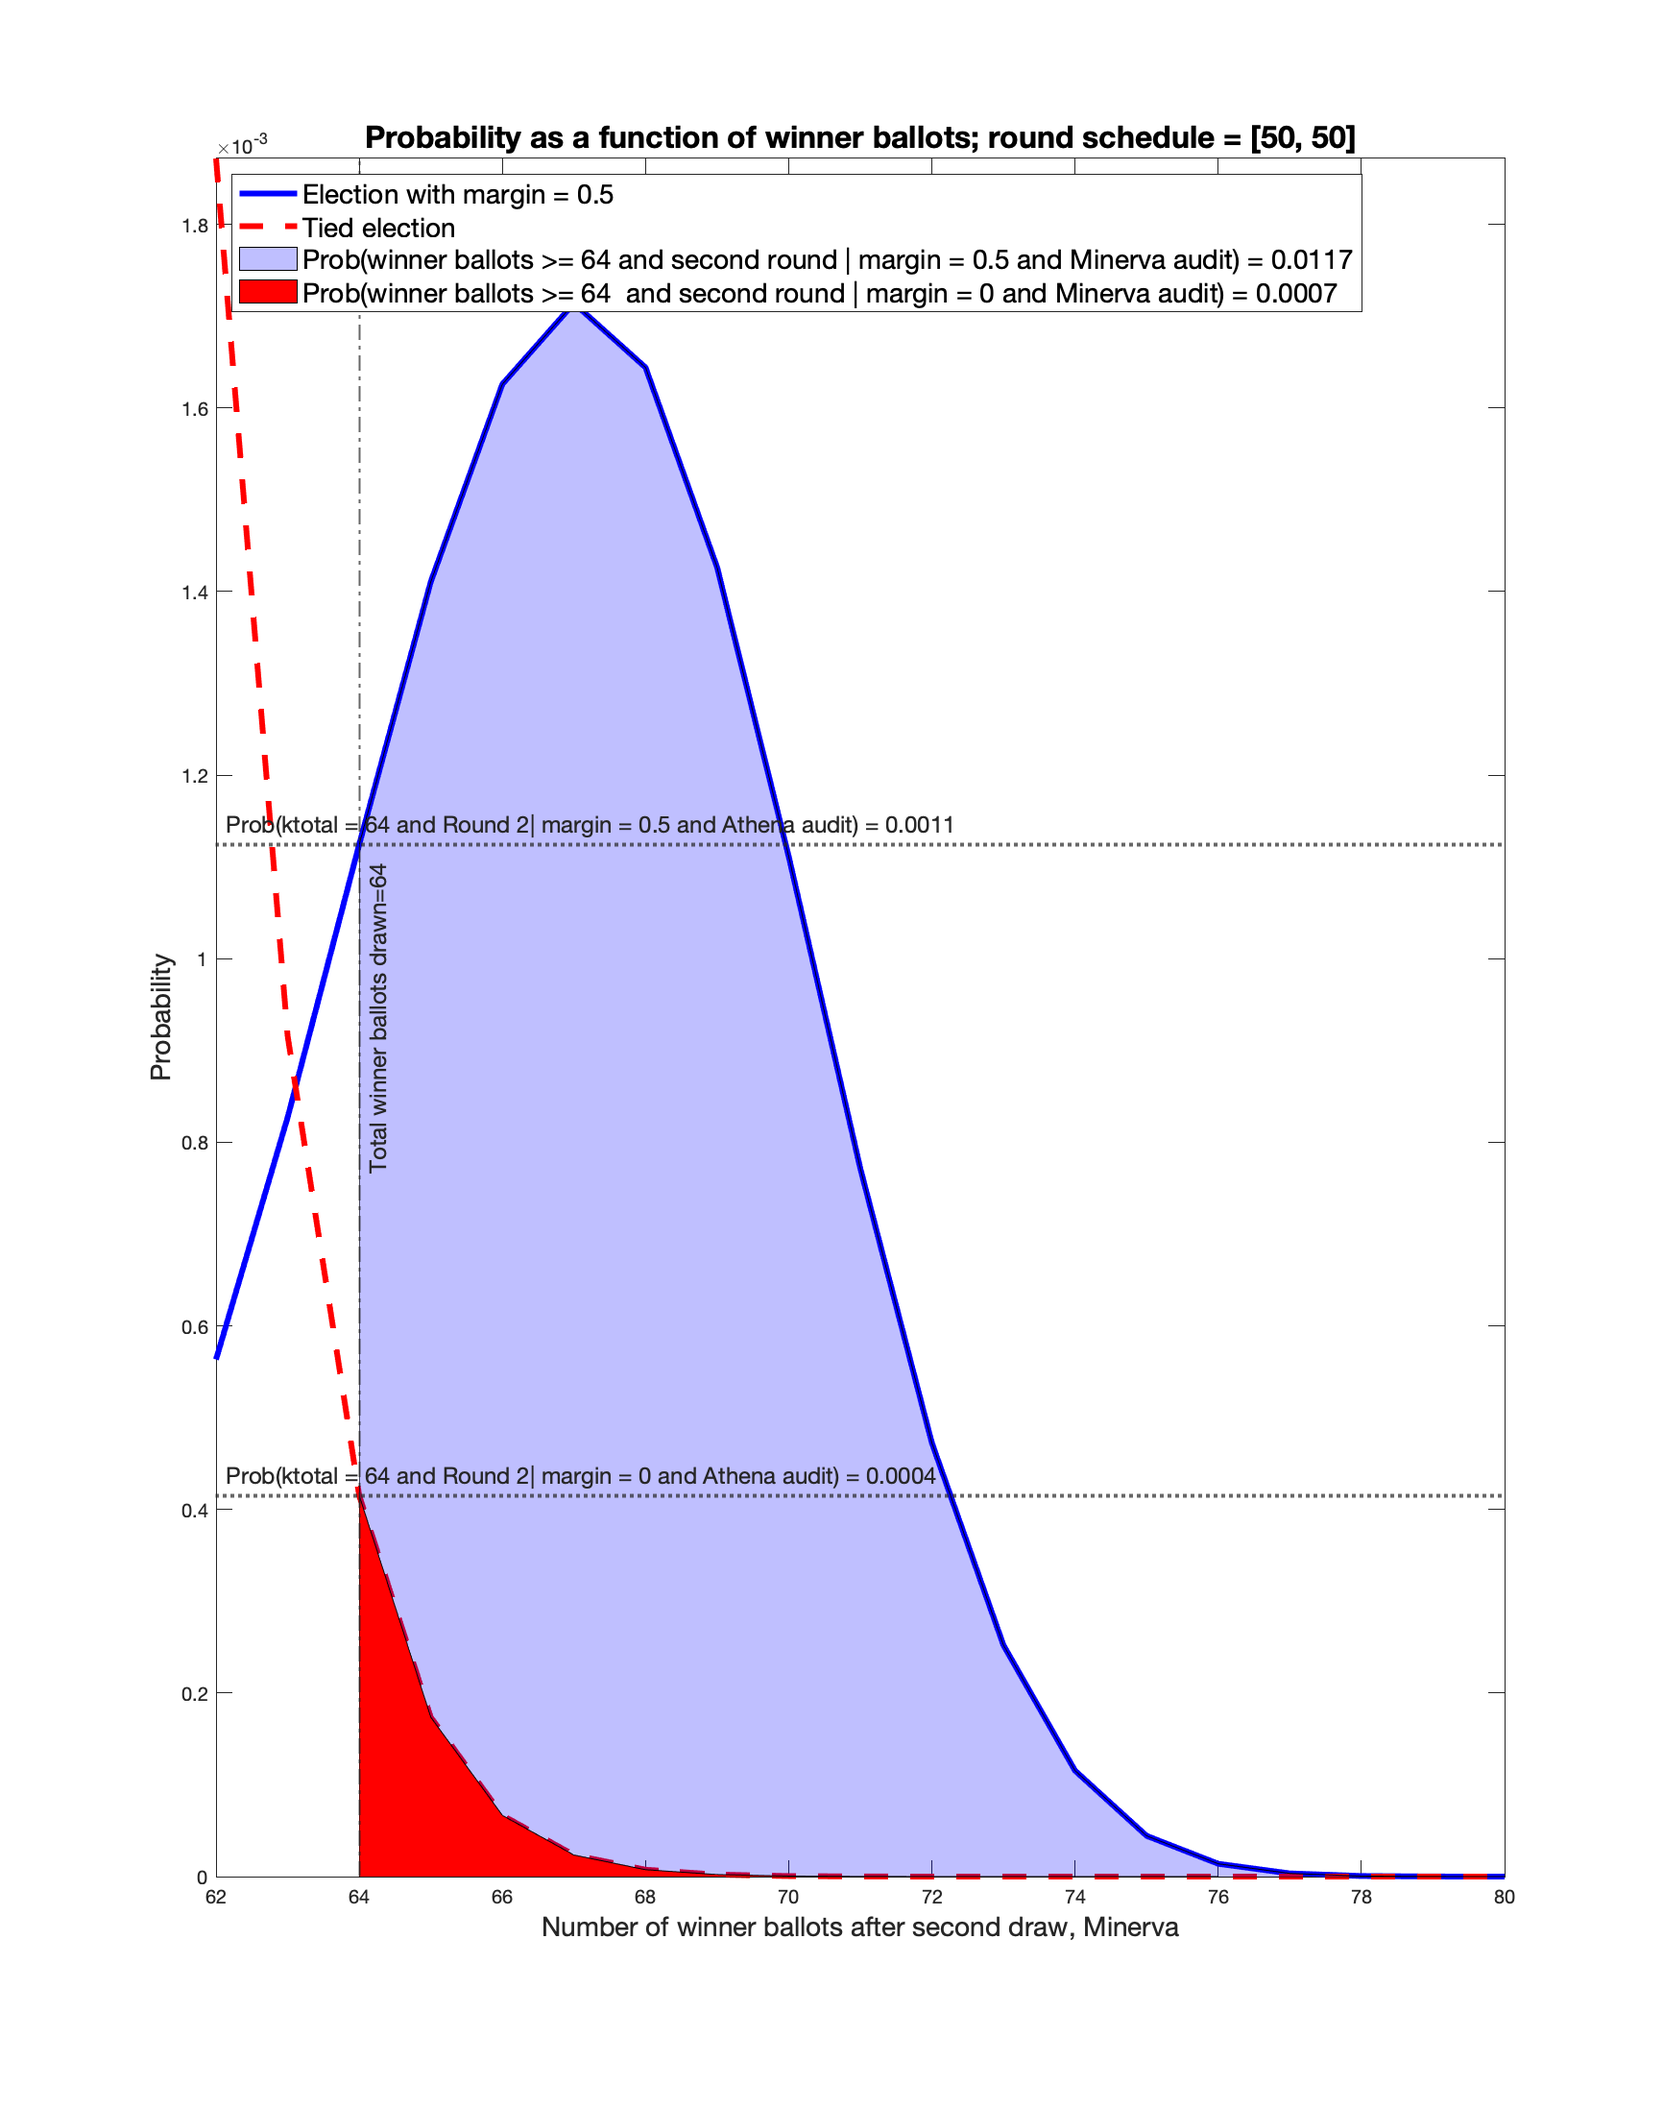
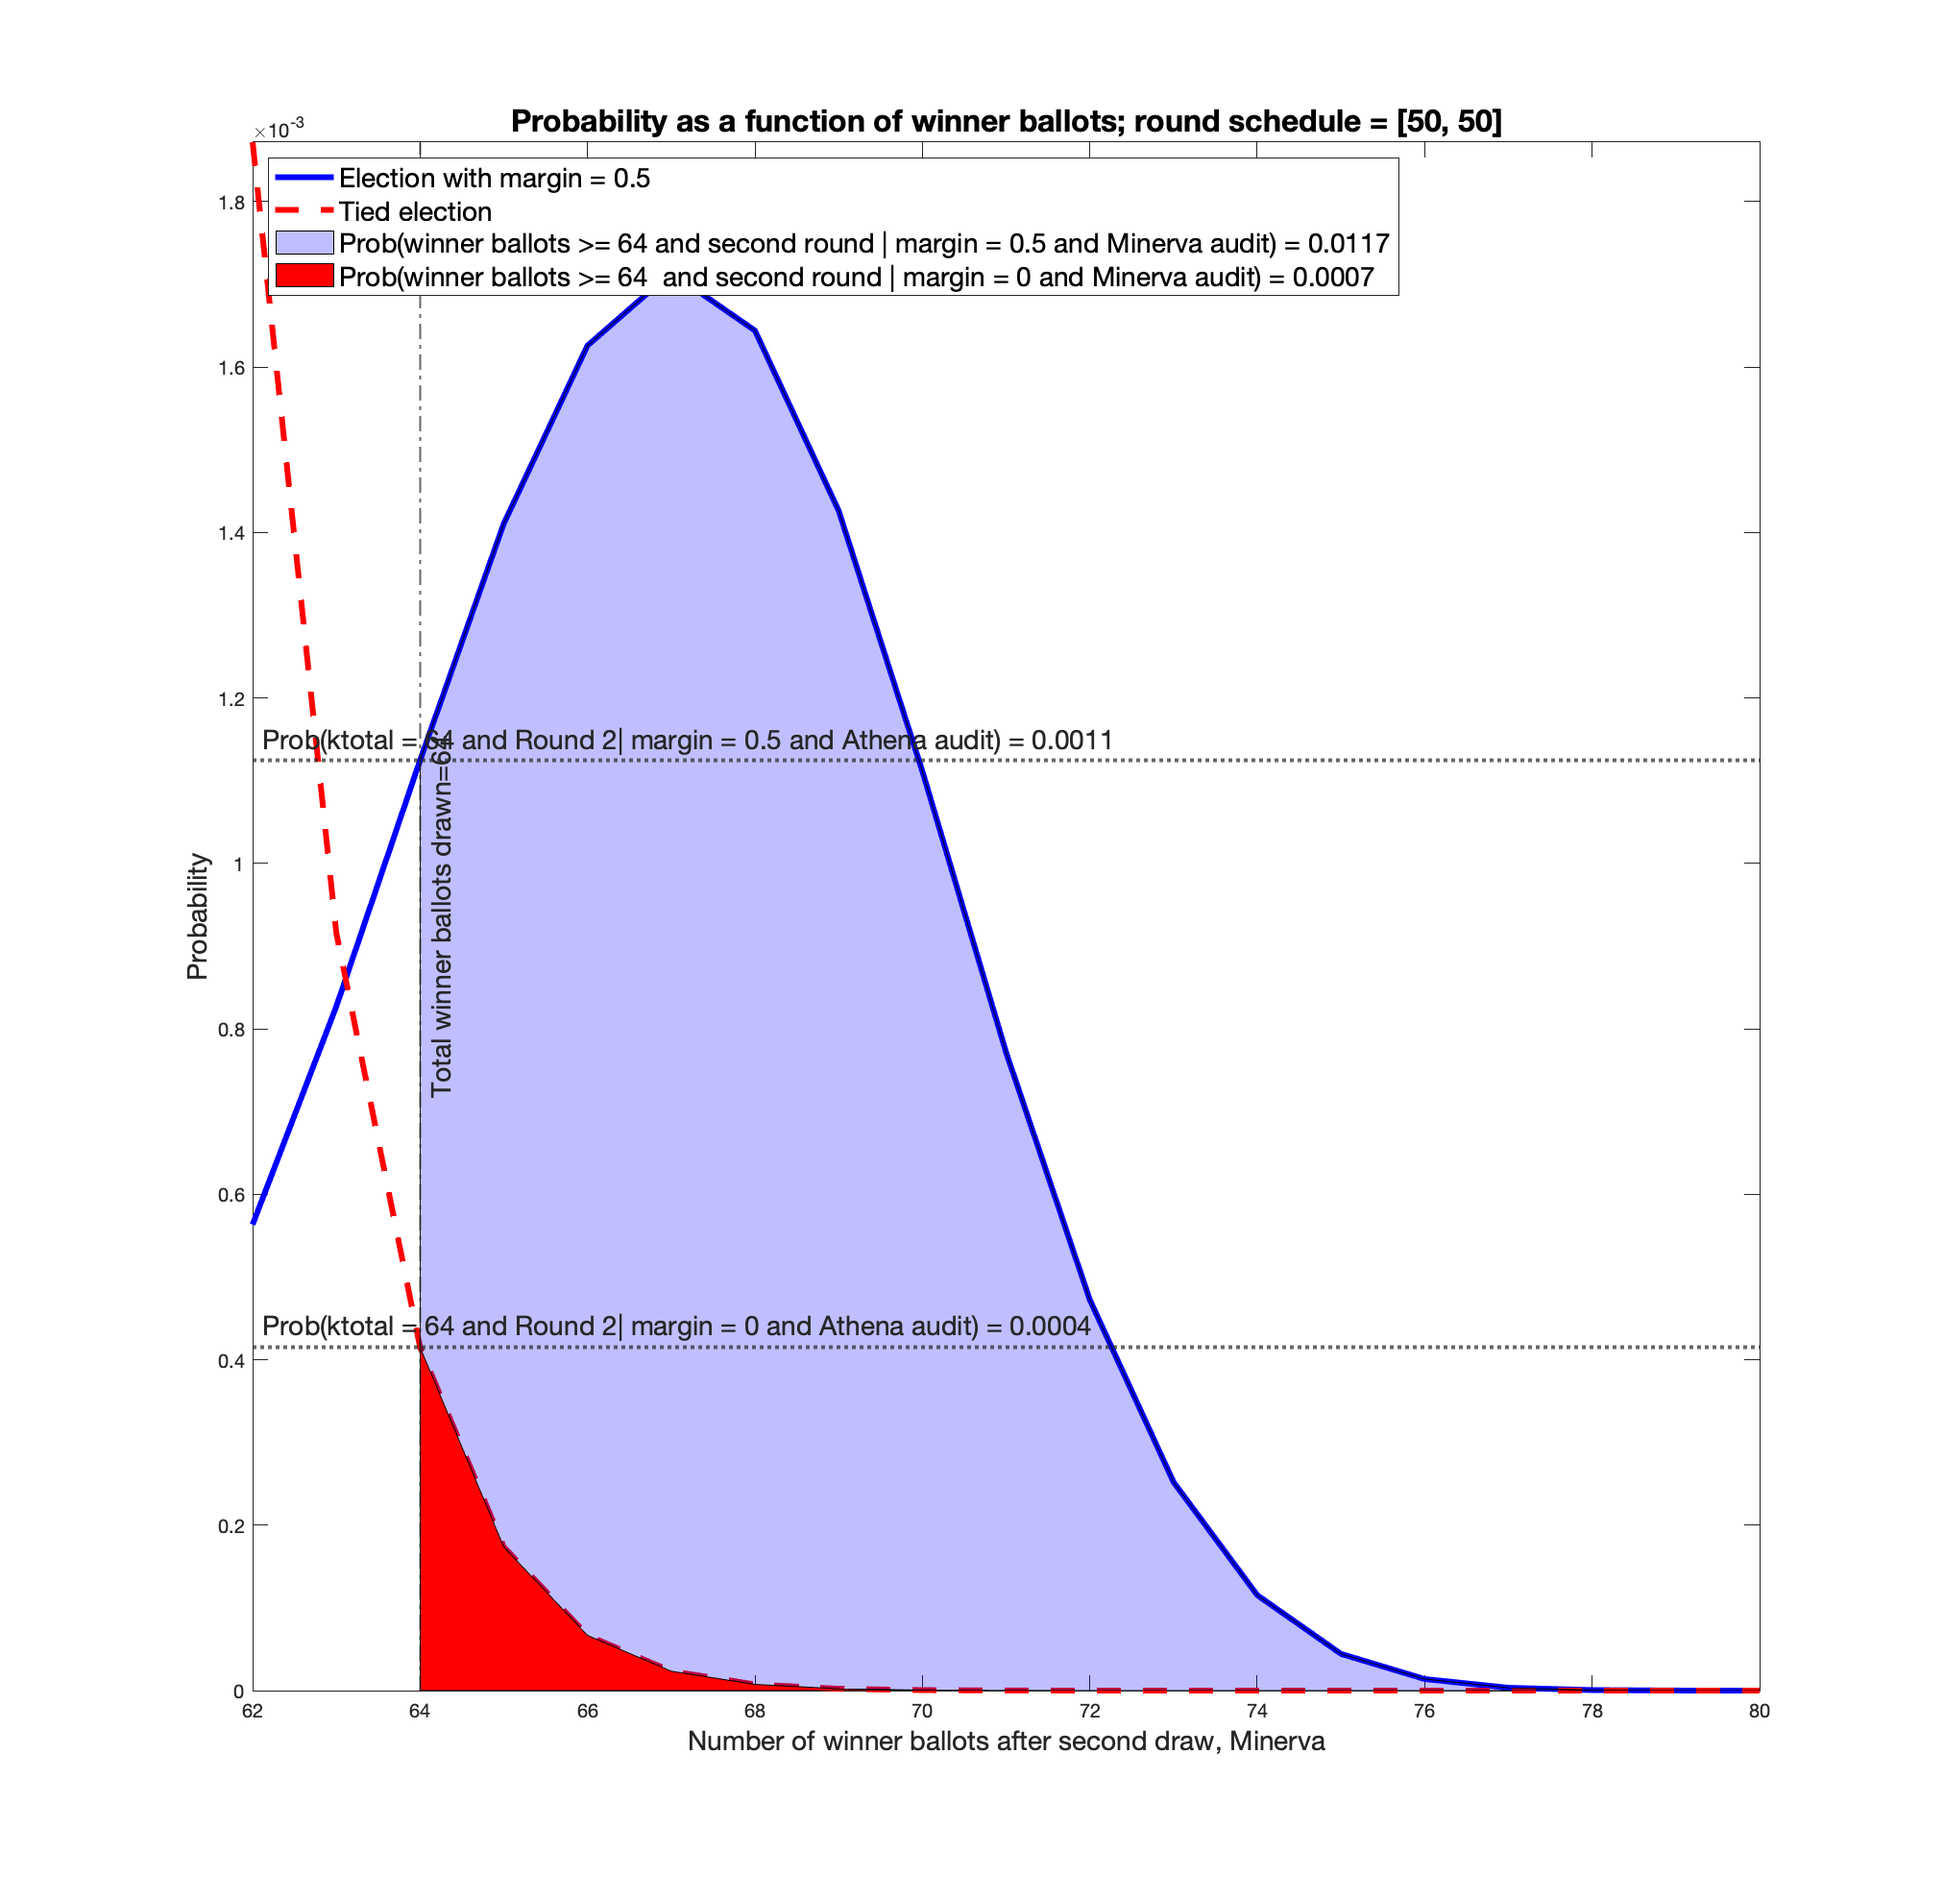
increased font size in second round tails image

diff --git a/R2Audits/Athena/Scripts/Figures_For_Exposition/graph_minerva_convolved_tails.m b/R2Audits/Athena/Scripts/Figures_For_Exposition/graph_minerva_convolved_tails.m
@@ -45,7 +45,7 @@ axis([begin_from, k2_max, 0, inf]);
 % Draw line at ktotal and label it
 xl = xline(ktotal, '-.', {sprintf('Total winner ballots drawn=%d', ktotal)});
 xl.LineWidth=1;
-xl.FontSize=12;
+xl.FontSize=14;
 xl.LabelVerticalAlignment='middle';
 
 % Draw corresponding horizontal lines and label
@@ -54,13 +54,13 @@ xl.LabelVerticalAlignment='middle';
 yl1 = yline(NewTierStop(ktotal+1), ':', ...
     {sprintf('Prob(ktotal = %d and Round 2| margin = %1.1f and Athena audit) = %1.4f', ktotal, margin, NewTierStop(ktotal+1))});
 yl1.LineWidth=2;
-yl1.FontSize=12;
+yl1.FontSize=14;
 yl1.LabelHorizontalAlignment='left';
 
 yl2 = yline(NewTierRisk(ktotal+1), ':', ...
     {sprintf('Prob(ktotal = %d and Round 2| margin = 0 and Athena audit) = %1.4f', ktotal, NewTierRisk(ktotal+1))});
 yl2.LineWidth=2;
-yl2.FontSize = 12;
+yl2.FontSize = 14;
 yl2.LabelHorizontalAlignment='left';
 
 % Label axes
